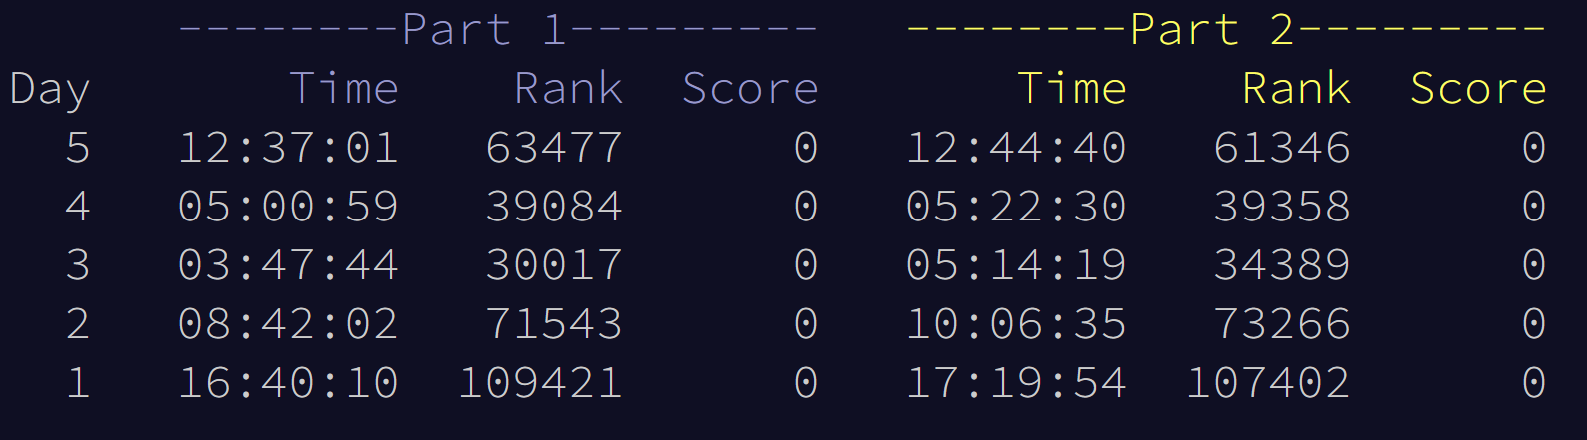
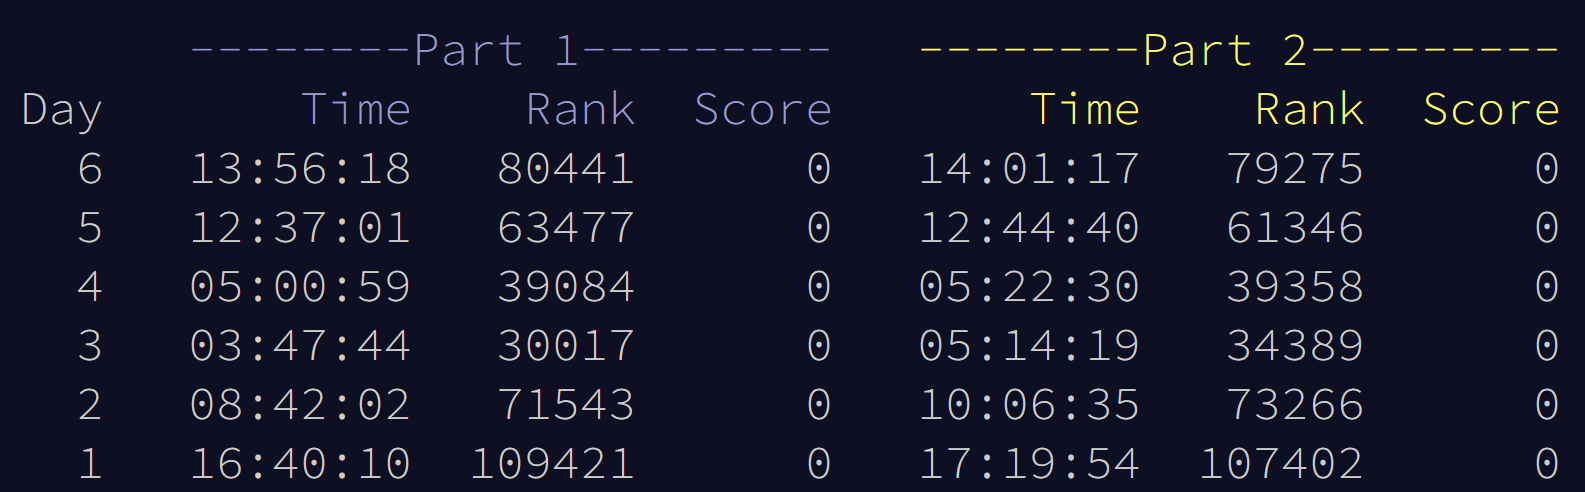
Complete Day 6; Update readme

diff --git a/daily_challenges/day6_2.py b/daily_challenges/day6_2.py
@@ -1,0 +1,35 @@
+# Day 6, Challenge 2 - Tuning
+# Change number of distinct characters to 14
+# Success - output at bottom
+ 
+# Read in data
+
+with open("data/tuning.txt") as f:
+    data = f.read()
+
+# brute force, performance be damned
+
+start_index = 0
+end_index = 14
+
+found = False
+
+final_range = []
+
+while found == False:
+    current_range = data[start_index:end_index]
+    non_dup_tracker = []
+    for i in current_range:
+        if current_range.count(i) == 1:
+            non_dup_tracker.append(i)
+            if len(non_dup_tracker) == 14:
+                final_range = [start_index, end_index]
+                found = True
+        elif current_range.count(i) > 1:
+            start_index += 1
+            end_index += 1
+            break
+            
+
+print(start_index, end_index)
+print("Last character before marker is index " + str(end_index)) # 1275

diff --git a/daily_challenges/day6_1.py b/daily_challenges/day6_1.py
@@ -1,0 +1,34 @@
+# Day 6, Challenge 1 - Tuning
+# Success - output at bottom
+ 
+# Read in data
+
+with open("data/tuning.txt") as f:
+    data = f.read()
+
+# brute force, performance be damned
+
+start_index = 0
+end_index = 4
+
+found = False
+
+final_range = []
+
+while found == False:
+    current_range = data[start_index:end_index]
+    non_dup_tracker = []
+    for i in current_range:
+        if current_range.count(i) == 1:
+            non_dup_tracker.append(i)
+            if len(non_dup_tracker) == 4:
+                final_range = [start_index, end_index]
+                found = True
+        elif current_range.count(i) > 1:
+            start_index += 1
+            end_index += 1
+            break
+            
+
+print(start_index, end_index)
+print("Last character before marker is index " + str(end_index)) # 1275

diff --git a/README.md b/README.md
@@ -17,6 +17,7 @@ Although I'm mainly focused on making it work and finding a solution, I'll proba
 | Day 3 | :star: :star: |
 | Day 4 | :star: :star: |
 | Day 5 | :star: :star: |
+| Day 6 | :star: :star: |
 
 ![Current Status in the Advent of Code Competition](images/currentStatus.png)
 
